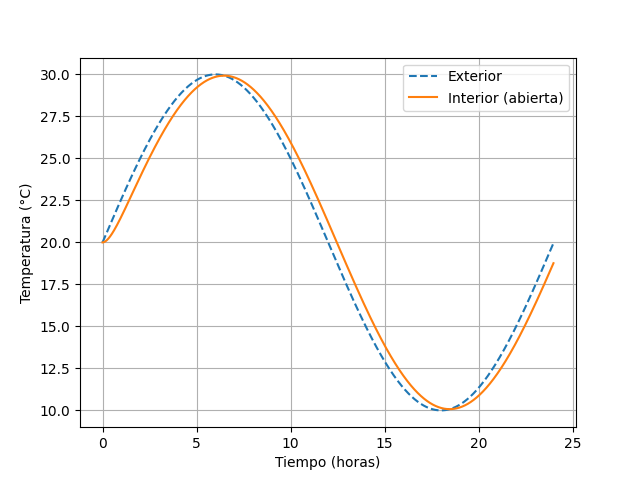
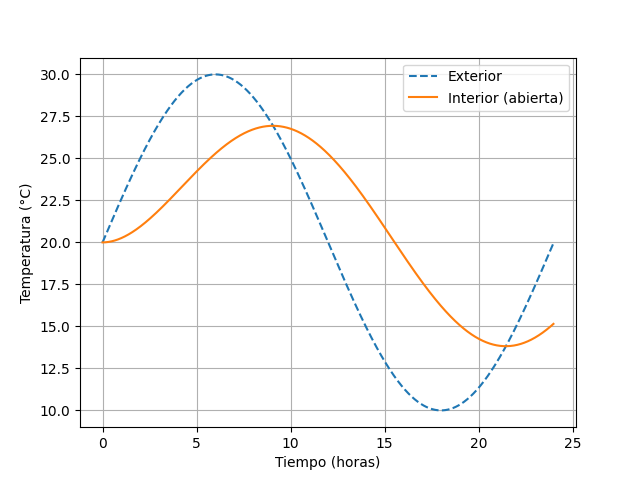
pronostico

diff --git a/TP2/fuzzy_ctrl_pronostico_2.py b/TP2/fuzzy_ctrl_pronostico_2.py
@@ -1,0 +1,158 @@
+import numpy as np
+import skfuzzy as fuzy
+from skfuzzy import control as ctrl
+
+
+class fuzzy_ctrl:
+    def __init__(self, V_obj, Ve, V, estrategia="base", hora=0.0, T_predicha=None):
+        self.V_obj = V_obj
+        self.Ve = Ve
+        self.V = V
+        self.estrategia = estrategia
+        self.hora_actual = hora
+        self.T_predicha = Ve if T_predicha is None else T_predicha
+
+        self.apertura = ctrl.Consequent(np.arange(0, 101, 1), 'apertura')
+        self.apertura.defuzzify_method = 'centroid'
+        self._configurar_consecuente()
+
+        if self.estrategia == "pronostico":
+            self._inicializar_controlador_pronostico()
+        else:
+            self._inicializar_controlador_base()
+
+    def _configurar_consecuente(self):
+        self.apertura['OFF'] = fuzy.trapmf(self.apertura.universe, [0, 0, 10, 35])
+        self.apertura['MID'] = fuzy.trimf(self.apertura.universe, [35, 50, 65])
+        self.apertura['ON'] = fuzy.trapmf(self.apertura.universe, [65, 90, 100, 100])
+
+    def _inicializar_controlador_base(self):
+        self.err = ctrl.Antecedent(np.arange(-20, 20, 1), 'error')
+        self.dT = ctrl.Antecedent(np.arange(-20, 20, 1), 'dT')
+
+        self._configurar_membresias_base()
+
+        regla1 = ctrl.Rule(self.dT['pos'] & self.err['pos'], self.apertura['OFF'])
+        regla2 = ctrl.Rule(self.dT['neg'] & self.err['neg'], self.apertura['OFF'])
+        regla3 = ctrl.Rule(self.dT['pos'] & self.err['neg'], self.apertura['ON'])
+        regla4 = ctrl.Rule(self.dT['neg'] & self.err['pos'], self.apertura['ON'])
+        regla5 = ctrl.Rule(self.err['Z'], self.apertura['MID'])
+
+        sistema_ctrl = ctrl.ControlSystem([regla1, regla2, regla3, regla4, regla5])
+        self.sistema = ctrl.ControlSystemSimulation(sistema_ctrl)
+
+    def _inicializar_controlador_pronostico(self):
+        self.z = ctrl.Antecedent(np.arange(-200, 201, 1), 'z')
+        self.hora = ctrl.Antecedent(np.arange(0, 24.5, 0.5), 'hora')
+        self.t_pred = ctrl.Antecedent(np.arange(-10, 46, 0.5), 'T_predicha')
+
+        self._configurar_membresias_pronostico()
+
+        reglas = [
+            ctrl.Rule(self.hora['dia'] & self.z['pos'], self.apertura['OFF']),
+            ctrl.Rule(self.hora['dia'] & self.z['Z'], self.apertura['MID']),
+            ctrl.Rule(self.hora['dia'] & self.z['neg'], self.apertura['ON']),
+            ctrl.Rule(self.hora['noche'] & self.t_pred['alta'] & self.z['pos'], self.apertura['OFF']),
+            ctrl.Rule(self.hora['noche'] & self.t_pred['alta'] & self.z['Z'], self.apertura['MID']),
+            ctrl.Rule(self.hora['noche'] & self.t_pred['alta'] & self.z['neg'], self.apertura['ON']),
+            ctrl.Rule(self.hora['noche'] & self.t_pred['baja'] & self.z['pos'], self.apertura['OFF']),
+            ctrl.Rule(self.hora['noche'] & self.t_pred['baja'] & self.z['Z'], self.apertura['MID']),
+            ctrl.Rule(self.hora['noche'] & self.t_pred['baja'] & self.z['neg'], self.apertura['ON']),
+        ]
+
+        sistema_ctrl = ctrl.ControlSystem(reglas)
+        self.sistema = ctrl.ControlSystemSimulation(sistema_ctrl)
+
+    def _configurar_membresias_base(self):
+        self.dT['neg'] = fuzy.trapmf(self.dT.universe, [-20, -20, -1, 1])
+        self.dT['pos'] = fuzy.trapmf(self.dT.universe, [-1, 1, 20, 20])
+
+        if self.estrategia == "base":
+            self.err['neg'] = fuzy.trapmf(self.err.universe, [-20, -20, -1, 0])
+            self.err['Z'] = fuzy.trimf(self.err.universe, [-1.5, 0, 1.5])
+            self.err['pos'] = fuzy.trapmf(self.err.universe, [0, 1, 20, 20])
+        elif self.estrategia == "gaussiana":
+            self.err['neg'] = fuzy.gaussmf(self.err.universe, -5, 2)
+            self.err['Z'] = fuzy.gaussmf(self.err.universe, 0, 1.5)
+            self.err['pos'] = fuzy.gaussmf(self.err.universe, 5, 2)
+        elif self.estrategia == "banda_muerta":
+            self.err['neg'] = fuzy.trapmf(self.err.universe, [-20, -20, -1.5, -0.5])
+            self.err['Z'] = fuzy.trapmf(self.err.universe, [-2, -1, 1, 2])
+            self.err['pos'] = fuzy.trapmf(self.err.universe, [0.5, 1.5, 20, 20])
+        else:
+            raise ValueError(
+                f"Estrategia '{self.estrategia}' no válida. Use: 'base', 'gaussiana', 'banda_muerta' o 'pronostico'."
+            )
+
+    def _configurar_membresias_pronostico(self):
+        self.z['neg'] = fuzy.trapmf(self.z.universe, [-200, -200, -2, 0])
+        self.z['Z'] = fuzy.trimf(self.z.universe, [-3, 0, 3])
+        self.z['pos'] = fuzy.trapmf(self.z.universe, [0, 2, 200, 200])
+
+        dia_mf = fuzy.trapmf(self.hora.universe, [7.5, 8.0, 20.0, 20.5])
+        noche_izq = fuzy.trapmf(self.hora.universe, [0.0, 0.0, 7.0, 8.0])
+        noche_der = fuzy.trapmf(self.hora.universe, [20.0, 21.0, 24.0, 24.0])
+        self.hora['dia'] = dia_mf
+        self.hora['noche'] = np.maximum(noche_izq, noche_der)
+
+        temp_borde = self.V_obj
+        self.t_pred['baja'] = fuzy.trapmf(self.t_pred.universe, [-10.0, -10.0, temp_borde - 1.0, temp_borde + 0.5])
+        self.t_pred['alta'] = fuzy.trapmf(self.t_pred.universe, [temp_borde - 0.5, temp_borde + 1.0, 45.0, 45.0])
+
+    def graficar_membresias(self):
+        import matplotlib.pyplot as plt
+
+        variables = []
+        if self.estrategia == "pronostico":
+            variables = [
+                (self.z, "Variable: Z = (V - Vobj)(Ve - V)"),
+                (self.hora, "Variable: Hora"),
+                (self.t_pred, "Variable: Temperatura Predicha"),
+                (self.apertura, "Variable: Apertura de Ventana"),
+            ]
+        else:
+            variables = [
+                (self.err, f"Variable: Error (Estrategia: {self.estrategia.capitalize()})"),
+                (self.dT, "Variable: Diferencial de Temperatura (dT)"),
+                (self.apertura, "Variable: Apertura de Ventana"),
+            ]
+
+        for variable, titulo in variables:
+            variable.view()
+            plt.title(titulo)
+        plt.show()
+
+    def set_Obj(self, V_obj):
+        self.V_obj = V_obj
+        if self.estrategia == "pronostico":
+            self._inicializar_controlador_pronostico()
+
+    def set_Ve(self, Ve):
+        self.Ve = Ve
+
+    def set_V(self, V):
+        self.V = V
+
+    def set_hora(self, hora):
+        self.hora_actual = hora
+
+    def set_T_predicha(self, T_predicha):
+        self.T_predicha = T_predicha
+
+    def _resetear_simulador(self):
+        self.sistema.reset()
+
+    def control(self) -> float:
+        self._resetear_simulador()
+
+        if self.estrategia == "pronostico":
+            z_val = (self.V - self.V_obj) * (self.Ve - self.V)
+            self.sistema.input['z'] = z_val
+            self.sistema.input['hora'] = self.hora_actual
+            self.sistema.input['T_predicha'] = self.T_predicha
+        else:
+            self.sistema.input['error'] = self.V - self.V_obj
+            self.sistema.input['dT'] = self.Ve - self.V
+
+        self.sistema.compute()
+        return self.sistema.output['apertura']

diff --git a/TP2/test_fuzzy_ctrl_pronostico.py b/TP2/test_fuzzy_ctrl_pronostico.py
@@ -1,0 +1,141 @@
+import matplotlib.pyplot as plt
+from matplotlib.gridspec import GridSpec
+from Planta import Planta
+from fuzzy_ctrl_pronostico_2 import fuzzy_ctrl
+from pronostico_tiempo import PronosticoTiempo
+import numpy as np
+
+
+def graficar_membresia_manual(variable_difusa, ax, titulo):
+    for label, term in variable_difusa.terms.items():
+        ax.plot(variable_difusa.universe, term.mf, label=label, linewidth=2)
+        ax.fill_between(variable_difusa.universe, 0, term.mf, alpha=0.2)
+    ax.set_title(titulo, fontweight='bold', fontsize=10)
+    ax.legend(fontsize=8)
+    ax.grid(True, linestyle=':', alpha=0.6)
+
+
+if __name__ == "__main__":
+    # --- 1. Configuración Inicial ---
+    n_puntos = 48
+    horizonte_pred_horas = 4.0
+
+    pt = PronosticoTiempo()
+    temperaturas = np.array(pt.obtener_temperaturas_dia(1, 2, n_puntos))
+
+    R = 1728
+    Rv_max = 15552
+    C = 1
+
+    dt_segundos = 3600 * 24 / n_puntos
+    tiempo_horas = np.array([i * dt_segundos / 3600 for i in range(n_puntos)])
+
+    pasos_pred = max(1, int(round(horizonte_pred_horas / (dt_segundos / 3600))))
+    temperaturas_predichas = np.empty_like(temperaturas)
+    for i in range(n_puntos):
+        idx = min(i + pasos_pred, n_puntos - 1)
+        temperaturas_predichas[i] = temperaturas[idx]
+
+    V_obj = 25
+    V_actual_inicial = 22
+
+    print("=== CONTROL DIFUSO CON PRONÓSTICO ===")
+    print(f"Horizonte de predicción: {horizonte_pred_horas:.1f} h")
+
+    # --- 2. Simulación ---
+    planta = Planta(R, Rv_max, C, dt_segundos)
+    ctrl = fuzzy_ctrl(
+        V_obj,
+        temperaturas[0],
+        V_actual_inicial,
+        estrategia="pronostico",
+        hora=tiempo_horas[0],
+        T_predicha=temperaturas_predichas[0],
+    )
+
+    V_actual = V_actual_inicial
+    T_controlada = [V_actual]
+    aperturas = [0.0]
+    z_hist = [(V_actual - V_obj) * (temperaturas[0] - V_actual)]
+
+    for i in range(n_puntos - 1):
+        ctrl.set_Ve(temperaturas[i])
+        ctrl.set_V(V_actual)
+        ctrl.set_hora(tiempo_horas[i])
+        ctrl.set_T_predicha(temperaturas_predichas[i])
+
+        apertura = ctrl.control()
+        aperturas.append(apertura)
+
+        V_sig = planta.paso(V_actual, apertura, temperaturas[i])
+        V_actual = V_sig
+        T_controlada.append(V_sig)
+        z_hist.append((V_actual - V_obj) * (temperaturas[i] - V_actual))
+
+    # --- 3. Métricas ---
+    error_array = np.array(T_controlada) - V_obj
+    rms_error = np.sqrt(np.mean(np.square(error_array)))
+
+    mask_confort = (tiempo_horas >= 8.0) & (tiempo_horas <= 20.0)
+    J = np.trapezoid(error_array[mask_confort], tiempo_horas[mask_confort]) / (20.0 - 8.0)
+
+    esfuerzo = np.sum(np.abs(np.diff(aperturas)))
+
+    print(f"Error RMS            : {rms_error:.3f} °C")
+    print(f"Métrica J (8-20 hs)  : {J:.3f} °C")
+    print(f"Esfuerzo mecánico    : {esfuerzo:.1f} %")
+
+    # --- 4. Visualización ---
+    fig = plt.figure(figsize=(16, 10))
+    fig.suptitle(
+        f"Control Difuso con Pronóstico | RMS: {rms_error:.2f} °C | J: {J:.2f} °C",
+        fontsize=16,
+        fontweight='bold',
+    )
+
+    gs = GridSpec(2, 4, height_ratios=[1, 1.6], figure=fig)
+
+    ax_z = fig.add_subplot(gs[0, 0])
+    ax_hora = fig.add_subplot(gs[0, 1])
+    ax_tpred = fig.add_subplot(gs[0, 2])
+    ax_ap = fig.add_subplot(gs[0, 3])
+
+    graficar_membresia_manual(ctrl.z, ax_z, "Antecedente: Z")
+    graficar_membresia_manual(ctrl.hora, ax_hora, "Antecedente: Hora")
+    graficar_membresia_manual(ctrl.t_pred, ax_tpred, "Antecedente: T predicha")
+    graficar_membresia_manual(ctrl.apertura, ax_ap, "Consecuente: Apertura (%)")
+
+    ax_sim = fig.add_subplot(gs[1, :])
+    ax_sim_ap = ax_sim.twinx()
+
+    c_text = "#1f77b4"
+    c_tpred = "#9467bd"
+    c_tint = "#d62728"
+    c_tobj = "#2ca02c"
+    c_aper = "#ff7f0e"
+
+    ax_sim.plot(tiempo_horas, temperaturas, '*', color=c_text, alpha=0.55, label='T exterior')
+    ax_sim.plot(tiempo_horas, temperaturas_predichas, '--', color=c_tpred, linewidth=1.8, label='T predicha')
+    ax_sim.plot(tiempo_horas, T_controlada, linewidth=2.6, color=c_tint, label='T interior')
+    ax_sim.axhline(V_obj, color=c_tobj, linestyle='--', linewidth=2, label='Confort 25 °C')
+    ax_sim.axvspan(8, 20, color='gray', alpha=0.08, label='Ventana J')
+
+    ax_sim_ap.fill_between(tiempo_horas, 0, aperturas, color=c_aper, alpha=0.16, label='Apertura %')
+    ax_sim_ap.plot(tiempo_horas, aperturas, color=c_aper, linewidth=1.5, alpha=0.85)
+
+    temp_min = min(np.min(temperaturas), np.min(temperaturas_predichas), np.min(T_controlada), V_obj)
+    temp_max = max(np.max(temperaturas), np.max(temperaturas_predichas), np.max(T_controlada), V_obj)
+    ax_sim.set_ylim(temp_min - 2, temp_max + 2)
+    ax_sim_ap.set_ylim(0, 105)
+
+    ax_sim.set_ylabel('Temperatura (°C)', fontsize=12, fontweight='bold')
+    ax_sim_ap.set_ylabel('Apertura (%)', fontsize=12, color=c_aper, fontweight='bold')
+    ax_sim.set_xlabel('Hora del día', fontsize=12, fontweight='bold')
+    ax_sim.grid(True, linestyle='--', alpha=0.7)
+
+    lines_1, labels_1 = ax_sim.get_legend_handles_labels()
+    lines_2, labels_2 = ax_sim_ap.get_legend_handles_labels()
+    ax_sim.legend(lines_1 + lines_2, labels_1 + labels_2, loc='upper left', ncol=3, fontsize=9)
+
+    plt.tight_layout()
+    plt.show()
